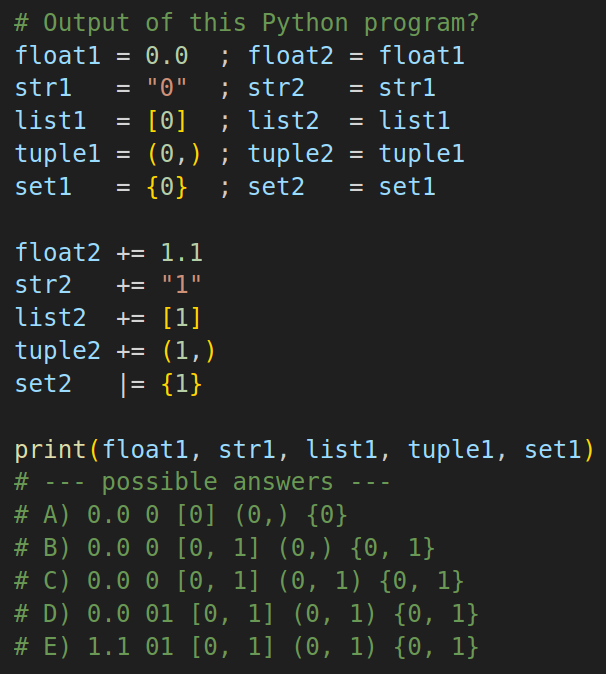
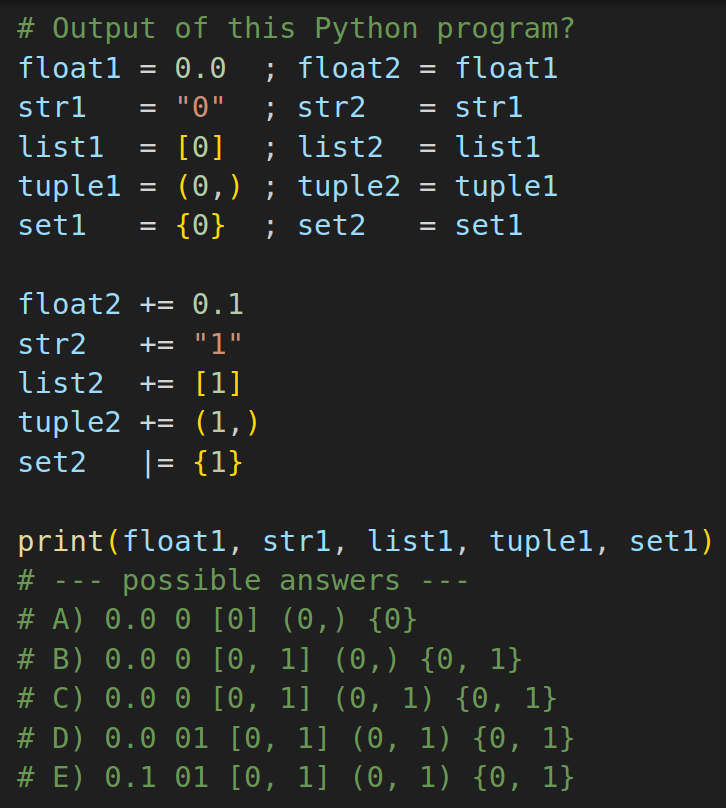
update

diff --git a/exercises/exercise4.py b/exercises/exercise4.py
@@ -6,7 +6,7 @@ list1  = [0]  ; list2  = list1
 tuple1 = (0,) ; tuple2 = tuple1
 set1   = {0}  ; set2   = set1
 
-float2 += 1.1
+float2 += 0.1
 str2   += "1"
 list2  += [1]
 tuple2 += (1,)
@@ -18,5 +18,5 @@ print(float1, str1, list1, tuple1, set1)
 # B) 0.0 0 [0, 1] (0,) {0, 1}
 # C) 0.0 0 [0, 1] (0, 1) {0, 1}
 # D) 0.0 01 [0, 1] (0, 1) {0, 1}
-# E) 1.1 01 [0, 1] (0, 1) {0, 1}
+# E) 0.1 01 [0, 1] (0, 1) {0, 1}
 
